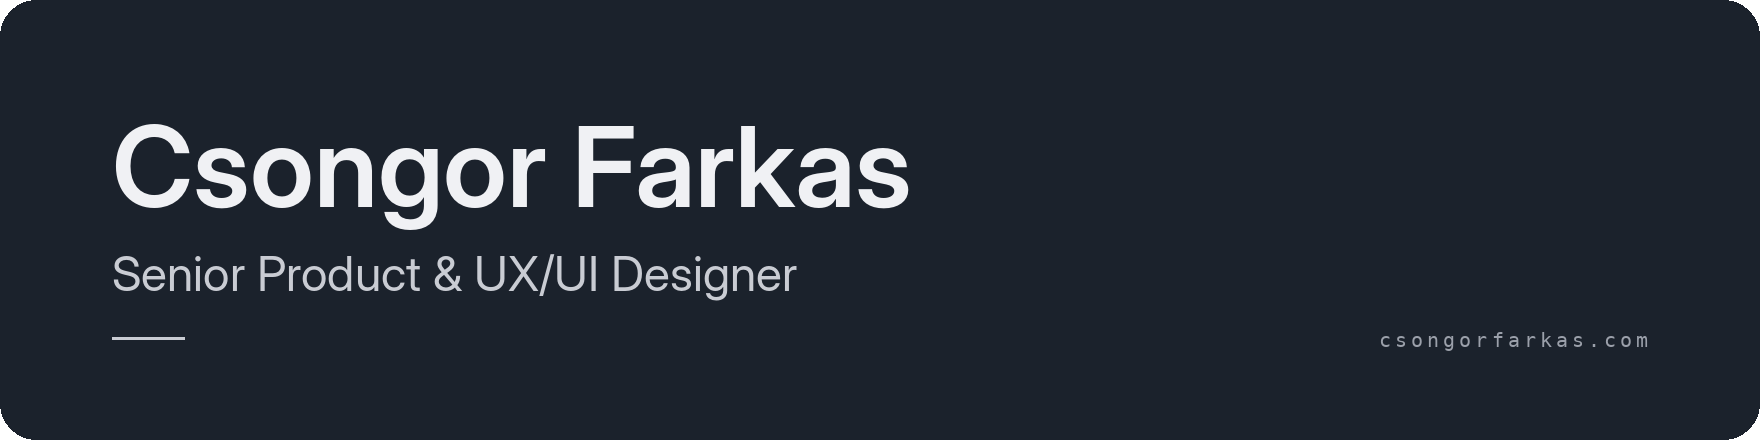
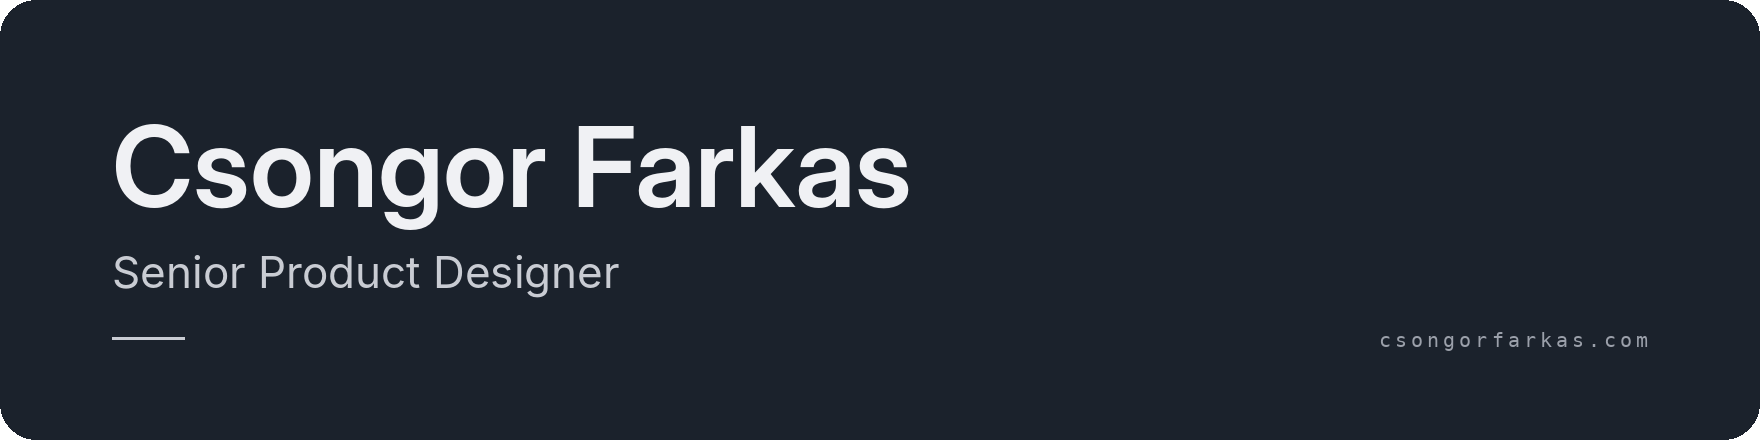
Update professional title to Senior Product Designer
Align the README intro, image alt text and banner subtitle with the
current CV and portfolio positioning.

Claude-Session: https://claude.ai/code/session_01WhLvVXEWYRyiFhYLeBudVL

Changed region(s): [[0.0625, 0.5614, 0.4688, 0.6795]]

diff --git a/README.md b/README.md
@@ -1,10 +1,10 @@
 <a href="https://csongorfarkas.com">
-  <img src="./assets/header.png" width="100%" alt="Csongor Farkas — Senior Product &amp; UX/UI Designer" />
+  <img src="./assets/header.png" width="100%" alt="Csongor Farkas — Senior Product Designer" />
 </a>
 
 <br />
 
-I'm a Senior Product & UX/UI Designer with 12+ years of experience shaping digital products, primarily in B2B SaaS.
+I'm a Senior Product Designer with 12+ years of experience shaping digital products, primarily in B2B SaaS.
 
 I work across the entire product lifecycle — from strategy, discovery and UX research to interaction design, scalable design systems and implementation. I combine strategic thinking with hands-on design and a practical understanding of frontend development.
 
